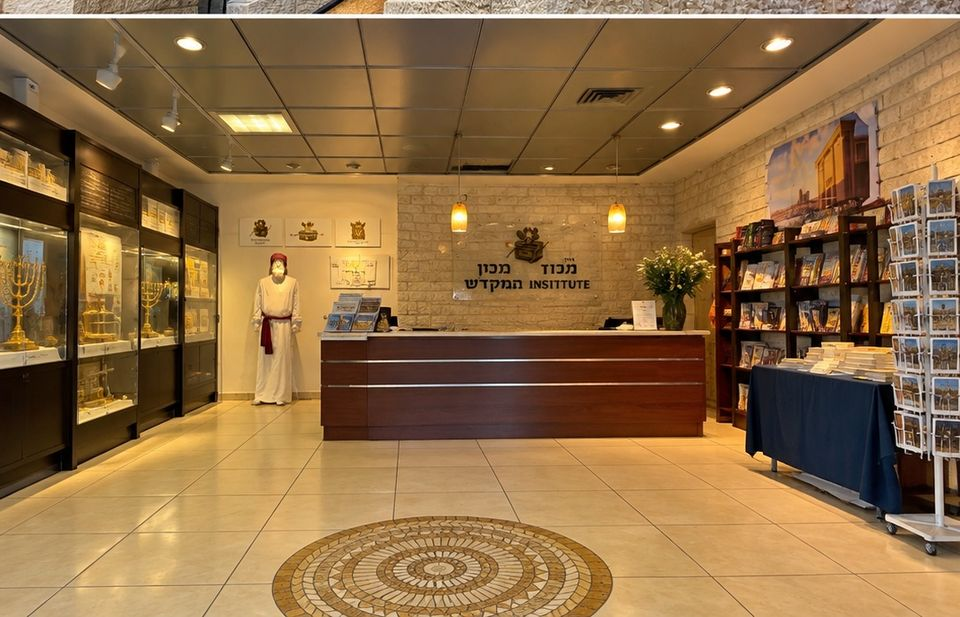
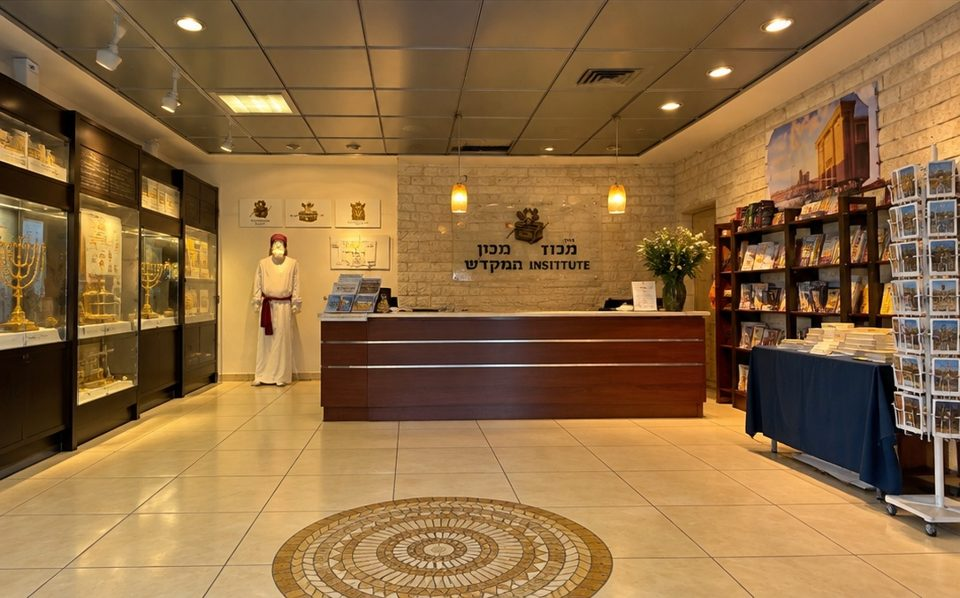
Episode 1: back at the Temple Institute entrance, the postcard stand and the Mount of Olives postcard (Zechariah 14:4) open Stop 2; tester build v2e
Claude-Session: https://claude.ai/code/session_011AqaUbLZhNpG24xiQxeqKm

diff --git a/app/www/js/fsy.js b/app/www/js/fsy.js
@@ -88,6 +88,7 @@
     else if (cur === "lock") K.say("Verse 3 names exactly three: the trumpet, the psaltery and the harp. The others are in the next verses.", "", 5200);
     else if (cur === "vessels") K.say("Tap every vessel to see what it was for. The one that gave light to the Holy Place is named again in Revelation 11:4.", "", 5600);
     else if (cur === "scroll") K.say("The glory came from the way of the EAST, with a voice like many WATERS, and the earth shined with his GLORY.", "", 5600);
+    else if (cur === "entrance") K.say("Visitors take something home from here. Look at the stand of postcards by the door: one of them is not like the others.", "", 5200);
     else if (cur === "olives") K.say("Look across the valley at the city wall. The sealed gate is the one straight ahead, below the domes.", "", 4600);
     else if (cur === "gate") K.say("“This gate shall be SHUT… because the LORD hath ENTERED in by it… It is for the PRINCE.”", "Ezekiel 44:2–3", 5600);
     else {
@@ -121,7 +122,7 @@
       '<button class="fbtn glow" id="fgo">Begin in the Old City</button>');
     $("fgo").onclick = () => { K.sfx("click"); stops(); };
   }
-  function done(k) { const p = P(); return k === "ti" ? !!(p.ti.ark && p.ti.courts && p.ti.lock && p.ti.vessels && p.ti.scroll) : k === "olives" ? !!p.olives : k === "mount" ? !!p.done : !!p.gateDone; }
+  function done(k) { const p = P(); return k === "ti" ? !!(p.ti.ark && p.ti.courts && p.ti.lock && p.ti.vessels && p.ti.scroll && p.ti.postcard) : k === "olives" ? !!p.olives : k === "mount" ? !!p.done : !!p.gateDone; }
   const STOPS = [
     { id: "ti", n: 1, title: "The Temple Institute", sub: "The Ark, the courts, the instruments and a parchment", run: institute },
     { id: "olives", n: 2, title: "The Mount of Olives", sub: "Look back across the valley at the sealed gate", run: olives },
@@ -134,7 +135,7 @@
     let next = STOPS.findIndex((x) => !done(x.id)); if (next < 0) next = STOPS.length;
     const s = stage('<div class="fkick">' + BOOK + ' · Episode 1</div><h1>' + EP + "</h1>" +
       '<div class="fsub">' + (next >= STOPS.length ? "Episode 1 solved" : "Stop " + (next + 1) + " of 4") + "</div>" +
-      '<div class="fjournal fstops">' + STOPS.map((x, i) => '<button class="fclue' + (done(x.id) ? " done" : i > next ? " locked" : "") + '" data-s="' + i + '"><i>' + (done(x.id) ? "✓" : x.n) + "</i><span><b>" + esc(x.title) + "</b><small>" + esc(x.sub) + "</small></span></button>").join("") + "</div>" +
+      '<div class="fjournal fstops">' + STOPS.map((x, i) => '<button class="fclue' + (done(x.id) ? " done" : i > next ? " locked" : "") + '" data-s="' + i + '"><i>' + (done(x.id) ? "✓" : x.n) + "</i><span><b>" + esc(i === 1 && !p.ti.postcard ? "Stop 2 · ?" : x.title) + "</b><small>" + esc(i === 1 && !p.ti.postcard ? "Somewhere in the Temple Institute is a clue to where you go next." : x.sub) + "</small></span></button>").join("") + "</div>" +
       (next >= STOPS.length ? '<button class="fbtn" id="fend">What comes next</button>' : ""), "temple-painting.jpg");
     s.querySelectorAll("[data-s]").forEach((b) => (b.onclick = () => {
       const i = +b.dataset.s; K.sfx("click");
@@ -167,14 +168,14 @@
     const s = stage('<div class="fkick">Stop 1 · The Temple Institute</div><h1>The exhibition hall</h1>' +
       photo("ti-hall.jpg", "Inside the Temple Institute", TI) +
       '<div class="fjournal">' + EXHIBITS.map((x, i) => '<button class="fclue' + (p.ti[x.id] ? " done" : x.needs && !p.ti[x.needs] ? " locked" : "") + '" data-e="' + i + '"><i>' + (p.ti[x.id] ? "✓" : i + 1) + "</i><span><b>" + esc(x.title) + "</b><small>" + esc(x.ref) + "</small></span></button>").join("") + "</div>" +
-      (done("ti") ? '<button class="fbtn glow" id="fgo">Leave for the Mount of Olives</button>' : "") + back("The stops"));
+      (EXHIBITS.every((e) => p.ti[e.id]) ? '<button class="fbtn glow" id="fgo">' + (p.ti.postcard ? "Leave for the Mount of Olives" : "Walk back to the entrance") + "</button>" : "") + back("The stops"));
     wire(s, stops);
     s.querySelectorAll("[data-e]").forEach((b) => (b.onclick = () => {
       const x = EXHIBITS[+b.dataset.e]; K.sfx("click");
       if (x.needs && !P().ti[x.needs]) { K.say("The parchment lies inside the instrument case. Open the case first.", "", 3200); return; }
       x.run();
     }));
-    const go = $("fgo"); if (go) go.onclick = () => { K.sfx("click"); stops(); };
+    const go = $("fgo"); if (go) go.onclick = () => { K.sfx("click"); if (p.ti.postcard) stops(); else entrance(); };
     if (!p.ti.ark) K.say("Begin with the Ark. Read what God told Moses about it.", "", 3200);
   }
   function exhibitDone(id, html, acts) {
@@ -430,6 +431,65 @@
     draw();
   }
 
+  /* 1e. back at the entrance: the postcard stand, and the clue to the next stop */
+  const POSTCARD_FRONT = '<svg viewBox="0 0 300 190" class="fpost" role="img" aria-label="A postcard: Greetings from the Mount of Olives">' +
+    '<defs><linearGradient id="psky" x1="0" y1="0" x2="0" y2="1"><stop offset="0" stop-color="#F2A65A"/><stop offset=".6" stop-color="#F7D9A0"/><stop offset="1" stop-color="#E9DDBF"/></linearGradient></defs>' +
+    '<rect width="300" height="190" fill="#F6EFDD"/><rect x="8" y="8" width="284" height="174" fill="url(#psky)"/>' +
+    '<circle cx="250" cy="96" r="13" fill="#FFF3C8"/>' +
+    '<path d="M8 120 L60 112 L130 110 L200 108 L292 114 L292 182 L8 182Z" fill="#B9A27A"/>' +
+    '<rect x="40" y="100" width="220" height="22" fill="#D9C7A0" stroke="#7A5A2A"/><path d="M96 100 A20 20 0 0 1 136 100Z" fill="#E3B54F" stroke="#7A5A2A"/><rect x="141" y="104" width="18" height="18" fill="#B9A27A" stroke="#7A5A2A"/>' +
+    '<path d="M8 182 L8 150 Q60 136 120 148 Q190 160 292 144 L292 182Z" fill="#6E7E42"/>' +
+    [28, 70, 112, 210, 256].map((x) => '<ellipse cx="' + x + '" cy="152" rx="13" ry="9" fill="#8A9A52"/><rect x="' + (x - 1.5) + '" y="152" width="3" height="11" fill="#5A4318"/>').join("") +
+    '<text x="150" y="34" text-anchor="middle" font-family="Georgia,serif" font-size="12" font-style="italic" fill="#5A3A10">Greetings from the</text>' +
+    '<text x="150" y="60" text-anchor="middle" font-family="Georgia,serif" font-size="22" font-weight="700" letter-spacing="2" fill="#7A2A10">MOUNT OF OLIVES</text>' +
+    '<text x="150" y="78" text-anchor="middle" font-family="Georgia,serif" font-size="9" letter-spacing="3" fill="#5A3A10">JERUSALEM</text></svg>';
+  const POSTCARD_BACK = '<svg viewBox="0 0 300 190" class="fpost" role="img" aria-label="The back of the postcard, with a handwritten note">' +
+    '<rect width="300" height="190" fill="#F6EFDD" stroke="#C9B48A"/><line x1="160" y1="20" x2="160" y2="170" stroke="#C9B48A"/>' +
+    '<rect x="238" y="16" width="44" height="52" fill="none" stroke="#C9B48A" stroke-dasharray="3 2"/><text x="260" y="46" text-anchor="middle" font-size="8" fill="#9A8A6A">STAMP</text>' +
+    [100, 122, 144].map((y) => '<line x1="172" y1="' + y + '" x2="282" y2="' + y + '" stroke="#C9B48A"/>').join("") +
+    '<g font-family="Snell Roundhand,Segoe Script,Bradley Hand,cursive" font-size="13" fill="#2A3A7A">' +
+    '<text x="16" y="40">Stand where His feet</text><text x="16" y="62">shall stand, and look</text><text x="16" y="84">back at the gate.</text>' +
+    '<text x="16" y="120" font-size="11">Zechariah 14:4</text><text x="16" y="150" font-size="12">Then you will see</text><text x="16" y="168" font-size="12">where it stood.</text></g></svg>';
+  function entrance() {
+    cur = "entrance"; const p = P();
+    const s = stage('<div class="fkick">The Temple Institute · the way out</div><h1>Back at the entrance</h1>' +
+      '<div class="fq">You have seen all five exhibits. On your way out, look around the entrance once more.</div>' +
+      '<div class="fark fhall" id="fhall"><img src="img/fsy/ti-hall.jpg" alt="The entrance hall of the Temple Institute">' +
+      '<button class="fhit" data-h="cases" aria-label="The display cases" style="left:0;top:15%;width:23%;height:60%"></button>' +
+      '<button class="fhit" data-h="priest" aria-label="The priest’s white garments" style="left:24%;top:36%;width:9%;height:32%"></button>' +
+      '<button class="fhit" data-h="desk" aria-label="The front desk" style="left:34%;top:52%;width:40%;height:21%"></button>' +
+      '<button class="fhit" data-h="painting" aria-label="The painting of the Temple" style="left:79%;top:15%;width:13%;height:22%"></button>' +
+      '<button class="fhit" data-h="cards" aria-label="The postcard stand" style="left:91%;top:27%;width:9%;height:62%"></button>' +
+      '<span class="fglint" style="left:96.5%;top:43%"></span></div>' +
+      '<div class="fsmall">Tap anything in the photograph.<small>Photo: Richard J. Allinson, at the Temple Institute</small></div>' + back("The hall"), "ti-hall.jpg");
+    wire(s, institute);
+    s.querySelectorAll("[data-h]").forEach((b) => (b.onclick = () => {
+      const h = b.dataset.h; K.sfx("click");
+      if (h === "cases") K.say("Golden menorahs and the vessels of the Temple, made again. You have seen them already.", "", 3400);
+      else if (h === "priest") K.say("The white linen of an ordinary priest: “thou shalt embroider the coat of fine linen, and thou shalt make the mitre of fine linen.”", "Exodus 28:39", 5200);
+      else if (h === "desk") K.say("The guide at the desk smiles. “Did you find what you came for? Everyone takes a souvenir home.”", "", 4600);
+      else if (h === "painting") K.say("A painting of the Temple on its mountain. Where on that mountain did it stand? That is the question.", "", 4600);
+      else postcard();
+    }));
+    if (!p.ti.postcardSeen) K.say("Before you leave: the guide said everyone takes a souvenir home.", "", 3600);
+  }
+  function postcard() {
+    const p = P(); p.ti.postcardSeen = 1; save();
+    K.card('<div class="kick">The postcard stand</div><h2>One card stands out</h2>' +
+      "<p>Rows of postcards: the menorah, the Western Wall, the Temple model. But one is turned the other way, as if someone left it for you.</p>" +
+      '<div class="fpostwrap" id="fpw" role="button" tabindex="0" aria-label="Turn the postcard over">' + POSTCARD_FRONT + "</div>" +
+      '<div class="fsmall" id="fpsm" style="color:#6B5A2A">Tap the postcard to turn it over.</div>' +
+      '<button class="cta" data-act="take" id="ftake" style="display:none">Take the postcard</button><button class="cta alt" data-act="x">Put it back</button>',
+      { take: () => { p.ti.postcard = 1; save(); K.snd("word"); K.buzz("success");
+          K.card('<div class="kick">Clue found · Zechariah 14:4</div><h2>The next stop</h2><div class="v">“And his feet shall stand in that day upon the mount of Olives, which is before Jerusalem on the east.”</div><div class="r">Zechariah 14:4 · KJV</div>' +
+            "<p>The postcard goes in your journal. Someone wants you on the Mount of Olives, looking back at the gate. <b>The Temple faced east, toward that mountain.</b> From there, the city should give up its secret.</p>" +
+            '<button class="cta" data-act="x">Leave for the Mount of Olives</button>', { x: stops }); },
+        x: () => {} });
+    const pw = $("fpw"); let back2 = false;
+    const flip = () => { back2 = !back2; K.sfx("click"); pw.innerHTML = back2 ? POSTCARD_BACK : POSTCARD_FRONT; pw.classList.toggle("back", back2); if (back2) { $("ftake").style.display = ""; $("fpsm").textContent = "A note, in blue ink."; } };
+    pw.onclick = flip; pw.onkeydown = (e) => { if (e.key === "Enter" || e.key === " ") flip(); };
+  }
+
   /* ================================================================ 2. the Mount of Olives ================================================================ */
   function olivesSVG(found) {
     return '<svg class="fpan" viewBox="0 0 360 220" role="img" aria-label="The view west from the Mount of Olives: the Kidron valley, the city wall with the sealed Eastern Gate, and the domes above it">' +
@@ -452,7 +512,7 @@
     cur = "olives"; const p = P();
     const s = stage('<div class="fkick">Stop 2 · East of the city</div><h1>The Mount of Olives</h1>' +
       '<div class="fverse">“And his feet shall stand in that day upon the mount of Olives, which is before Jerusalem on the east.”<small>Zechariah 14:4</small></div>' +
-      '<div class="fq">From here the Temple’s east gate looked straight at you. Find the sealed gate in the city wall and tap it.</div>' +
+      '<div class="fq">The postcard brought you here. From here the Temple’s east gate looked straight at you. Find the sealed gate in the city wall and tap it.</div>' +
       '<div class="fviewwrap" id="fv">' + olivesSVG(false) + '<button class="fhit" data-h="dome" aria-label="The golden dome" style="left:26%;top:36%;width:18%;height:22%"></button><button class="fhit" data-h="gate" aria-label="The sealed gate" style="left:43%;top:42%;width:14%;height:20%"></button><button class="fhit" data-h="small" aria-label="The small dome" style="left:56%;top:36%;width:12%;height:22%"></button></div>' +
       '<div class="fsmall">A drawn view, until Richard’s photograph from the Mount of Olives is added.</div>' + back("The stops"));
     wire(s, stops);
@@ -692,7 +752,7 @@
     devSkip() {
       const p = P();
       if (!p.began) p.began = 1;
-      if (!done("ti")) { Object.assign(p.ti, { entered: 1, ark: 1, courts: 1, lock: 1, vessels: 1, scroll: 1 }); }
+      if (!done("ti")) { Object.assign(p.ti, { entered: 1, ark: 1, courts: 1, lock: 1, vessels: 1, scroll: 1, postcard: 1 }); }
       else if (!p.olives) p.olives = 1;
       else if (!p.done) { CLUES.forEach((c) => (p.clues[c.id] = 1)); p.theory = p.theory || "unsure"; p.done = 1; K.A().relics.reed = 1; }
       else p.gateDone = 1;

diff --git a/app/www/css/fsy.css b/app/www/css/fsy.css
@@ -167,3 +167,10 @@
 #adv .asheet .fvessel{display:block;width:100%;border-radius:10px}
 #adv .asheet .fnote{margin:10px 0;padding:10px 12px;border-left:3px solid #C9A24A;background:rgba(201,162,74,.14);font:italic 600 14.5px/1.5 var(--display);color:#3A3F55}
 #adv .fsy .bgp[style*="temple-painting"]{filter:brightness(.42) saturate(.95) blur(1.5px);background-position:center}
+#adv .fhall .fhit{animation:none}
+#adv .fglint{position:absolute;width:22px;height:22px;margin:-11px 0 0 -11px;border-radius:50%;pointer-events:none;background:radial-gradient(circle,#FFF6CF 0,rgba(245,210,122,.85) 35%,rgba(245,210,122,0) 70%);animation:fsy-glint 2.2s ease-in-out infinite}
+@keyframes fsy-glint{0%,100%{opacity:.15;transform:scale(.6)}50%{opacity:1;transform:scale(1.2)}}
+#adv .asheet .fpostwrap{margin:10px auto;max-width:320px;cursor:pointer;perspective:800px;transition:transform .35s}
+#adv .asheet .fpostwrap:active{transform:scale(.97)}
+#adv .asheet .fpost{display:block;width:100%;border-radius:6px;box-shadow:0 8px 20px rgba(0,0,0,.35);transform:rotate(-2deg)}
+#adv .asheet .fpostwrap.back .fpost{transform:rotate(1.5deg)}

diff --git a/app/www/js/release.js b/app/www/js/release.js
@@ -8,7 +8,7 @@
   /* Every new build starts from the very first scene (full start screen, Creation level 1), as Richard asked.
      The progress saved by an older build, here and in iCloud, is set aside.
      !! Turn FRESH_EACH_BUILD off before an UPDATE goes to real players, or their progress would be wiped. */
-  const BUILD = "v2d";
+  const BUILD = "v2e";
   const FRESH_EACH_BUILD = true;
   /* The Final Seven Years: false = shown as a preview only, every chapter locked ("Coming soon").
      Set to true when Richard opens chapter 1. */
